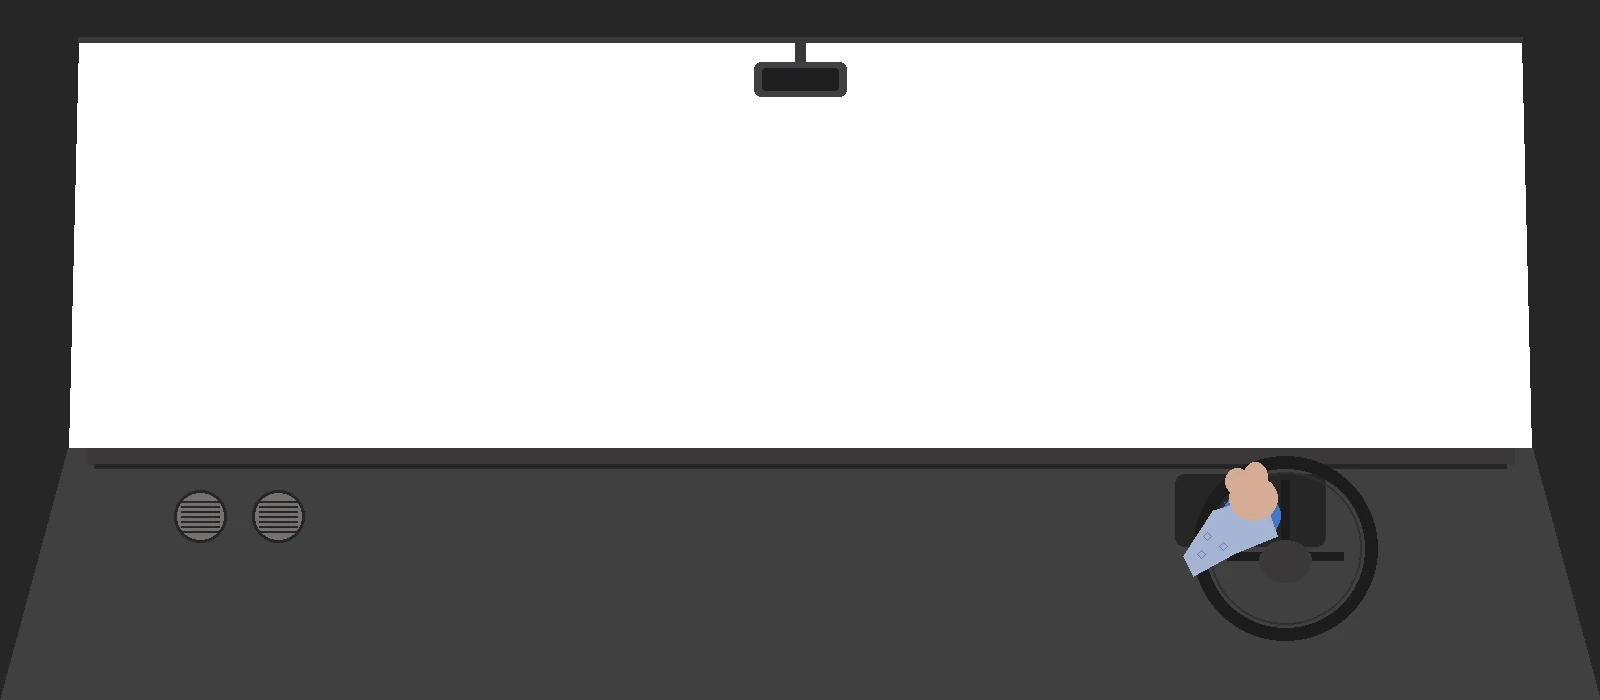
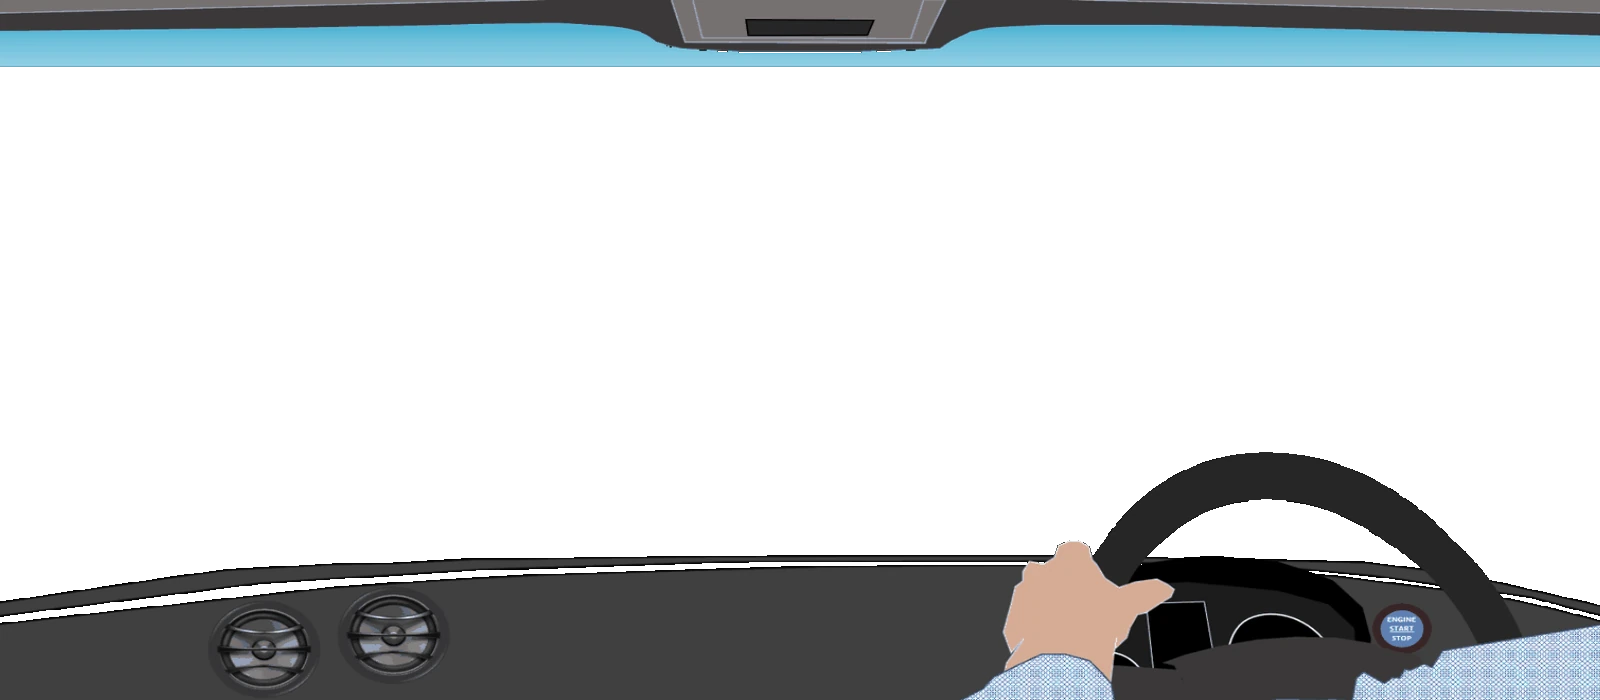
Restore original scene fidelity and fix the parallax framing.
Drop the traced assets that introduced magenta fringes and a missing
road, paint compact NSW signs over the original layers, harden alpha,
and keep a slightly taller cabin without hiding the road. Scene sky
matches the art again, and layer framing keeps the wheel and lanes in
view at the top of the page.

diff --git a/src/styles.css b/src/styles.css
@@ -212,18 +212,18 @@ section {
   height: min(78vh, 48rem);
   min-height: 18rem;
   overflow: hidden;
-  background: #28292e;
+  background: #7eb7d4;
 }
 
 .scene-layer {
   position: absolute;
   left: 50%;
-  top: -28%;
-  width: 135%;
+  top: -6%;
+  width: 112%;
   max-width: none;
-  height: 170%;
-  margin-left: -67.5%;
-  transform-origin: center 60%;
+  height: 112%;
+  margin-left: -56%;
+  transform-origin: center 50%;
 }
 
 .scene-layer picture,
@@ -236,7 +236,7 @@ section {
 
 .scene-layer img {
   object-fit: cover;
-  object-position: center 30%;
+  object-position: center 52%;
 }
 
 .scene-car-extend {
@@ -250,19 +250,19 @@ section {
 
 @media (max-width: 700px) {
   .scene {
-    height: min(58vw, 40vh, 20rem);
-    min-height: 13rem;
+    height: min(78vw, 52vh, 24rem);
+    min-height: 15rem;
   }
 
   .scene-layer {
-    top: -16%;
-    width: 112%;
-    height: 145%;
-    margin-left: -56%;
+    top: -4%;
+    width: 108%;
+    height: 110%;
+    margin-left: -54%;
   }
 
   .scene-layer img {
-    object-position: 46% 28%;
+    object-position: 48% 52%;
   }
 }
 
